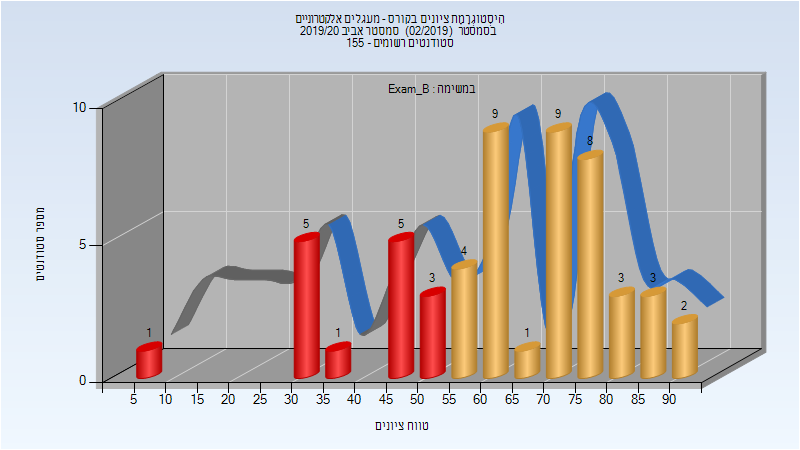
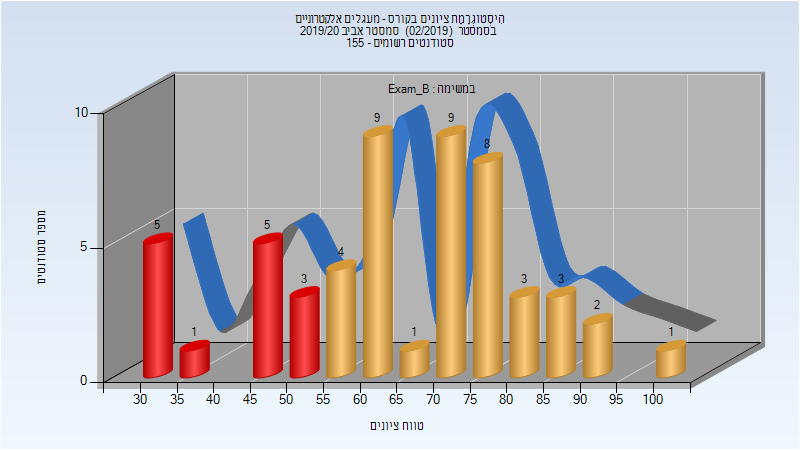
Deploy michael-maltsev/technion-histograms to github.com/michael-maltsev/technion-histograms.git:gh-pages

diff --git a/044137/index.html b/044137/index.html
@@ -427,12 +427,12 @@
 <tbody>
 <tr>
 <td>54</td>
-<td>39/15</td>
-<td>72</td>
-<td>6</td>
-<td>91</td>
-<td>63.056</td>
-<td>63.5</td>
+<td>40/14</td>
+<td>74</td>
+<td>33</td>
+<td>102</td>
+<td>64.833</td>
+<td>65.5</td>
 </tr>
 </tbody>
 </table>
@@ -453,12 +453,12 @@
 <tbody>
 <tr>
 <td>53</td>
-<td>46/7</td>
-<td>87</td>
-<td>27</td>
-<td>93</td>
-<td>71.792</td>
-<td>72</td>
+<td>47/6</td>
+<td>89</td>
+<td>48</td>
+<td>100</td>
+<td>73.17</td>
+<td>75</td>
 </tr>
 </tbody>
 </table>

diff --git a/044137/README.md b/044137/README.md
@@ -128,7 +128,7 @@
 
 | סטודנטים | עברו/נכשלו | אחוז עוברים | ציון מינימלי | ציון מקסימלי | ממוצע | חציון |
 | ---- | ---- | ---- | ---- | ---- | ---- | ---- |
-| 54 | 39/15 | 72 | 6 | 91 | 63.056 | 63.5 |
+| 54 | 40/14 | 74 | 33 | 102 | 64.833 | 65.5 |
 
 ### סופי מועד ב'
 
@@ -136,7 +136,7 @@
 
 | סטודנטים | עברו/נכשלו | אחוז עוברים | ציון מינימלי | ציון מקסימלי | ממוצע | חציון |
 | ---- | ---- | ---- | ---- | ---- | ---- | ---- |
-| 53 | 46/7 | 87 | 27 | 93 | 71.792 | 72 |
+| 53 | 47/6 | 89 | 48 | 100 | 73.17 | 75 |
 
 ### סופי
 
